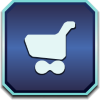
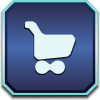
more UI:

diff --git a/game.js b/game.js
@@ -9,30 +9,83 @@ var death = function(e) {
     enemies = enemies.filter( (value, index, arr) => value != e);
 }
 
-//var enemy = new Enemy(speed, spawn, rails, death, 5, document.getElementById('enemy'));
-//enemies.push(enemy);
-
-
 generateTileBoard(spawn, rails);
 
+var bg = two.makeRectangle(w/2, h/2, two.width, two.height);
+var bgText = two.makeTexture(document.getElementById('bg_img'));
+bg.fill = bgText;
+bg.noStroke();
+bgLayer.add(bg);
+
 var shopBtnText = two.makeTexture(document.getElementById('shop_btn'));
-var shopBtn = two.makeRectangle(two.width * .9, two.height * .9 , 100, 100);
+var shopBtnActvText = two.makeTexture(document.getElementById('shop_btn_actv'));
+var shopBtn = two.makeRectangle(two.width * .9, two.height * .85 , 100, 100);
+shopBtn.fill = shopBtnText;
+shopBtn.noStroke();
+
+
+var uiBgText = two.makeTexture(document.getElementById('ui_bg'));
+var uiBg = two.makeRectangle(two.width * .9 - 75, two.height/2, 450, 800);
+uiBg.fill = uiBgText;
+uiBg.noStroke();
+
+var hpBarText = two.makeTexture(document.getElementById('hp_bar'));
+var hpBar = two.makeRectangle(two.width * .9 - 75, two.height * .15 , 400, 70);
+hpBar.fill = hpBarText;
+hpBar.noStroke();
+
+var hpBarText = two.makeTexture(document.getElementById('hp_bar_hp'));
+var hpBarhp = two.makeRectangle(two.width * .9 - 75-29, two.height * .15 , 330, 58);
+hpBarhp.fill = hpBarText;
+hpBarhp.noStroke();
+
+var moneyBarText = two.makeTexture(document.getElementById('money_bar'));
+var moneyBar = two.makeRectangle(two.width * .9 - 75, two.height * .15 + 100, 400, 70);
+moneyBar.fill = moneyBarText;
+moneyBar.noStroke();
+
+var two_currency = new Two.Text("" + player_currency);
+two_currency.alignment = 'right';
+two_currency.size = 65;
+two_currency.family = 'ZCOOL KuaiLe';
+two_currency.fill = '#FFFFFF';
+two_currency.translation = new Two.Vector(two.width * .9 - 75 + 120, two.height * .15 + 107);
+
+var normalText = two.makeTexture(document.getElementById('normal_btn'));
+var fastText =  two.makeTexture(document.getElementById('fast_btn'));
+var speedBtn = two.makeRectangle(two.width * .9 - 150, two.height * .85 , 100, 100);
+speedBtn.noStroke();
+speedBtn.fill = normalText;
+
+UILayer.add(uiBg, speedBtn, shopBtn, hpBar, hpBarhp, moneyBar, two_currency);
+
 two.update();
+
+speedBtn._renderer.elem.onclick = () => {
+    if(gameSpeed == 1) {
+        gameSpeed = 2;   
+        speedBtn.fill = fastText;
+    } else {
+        gameSpeed = 1;
+        speedBtn.fill = normalText;
+    }
+}
 
 shopBtn._renderer.elem.onclick = () => {
     if(state == 0) {
+        shopBtn.fill = shopBtnActvText;
         state = 1;
         shopState = 0;
     } else if(state == 1) {
+        shopBtn.fill = shopBtnText;
         shopState = 2;
     } else if(state == 2) {
+        shopBtn.fill = shopBtnActvText;
         state = 1;
         shopState = 0;
     }
 }
 
-shopBtn.fill = shopBtnText;
-shopBtn.noStroke();
 
 var level = -1;
 var levelRunningState = 0; //0 -> waiting for current enemies to die
@@ -58,14 +111,13 @@ var numEnemies = 4;
 two.bind('update', function(frameCount) {
     if(state == 0) {
         
-
         if(levelRunningState == 0 && enemies.length == 0) {
             levelRunningState = 2;
-			setTimeout(() => {levelRunningState = 1; level++;currentEnemy = 0, numEnemySpawn=0, spawnTimer=0}, 5000);
+			setTimeout(() => {levelRunningState = 1; level++;currentEnemy = 0, numEnemySpawn=0, spawnTimer=0}, 5000/gameSpeed);
         }
 
         var spawns = enemySpawns()[level];
-        spawnTimer += two.timeDelta/1000;
+        spawnTimer += two.timeDelta/1000*gameSpeed;
 
 
         if(spawns && spawnTimer >= spawns[1][currentEnemy] && levelRunningState == 1) {
@@ -89,10 +141,10 @@ two.bind('update', function(frameCount) {
 
 
         for(var i = 0; i < enemies.length; i++) {
-            enemies[i].update(two.timeDelta);
+            enemies[i].update(two.timeDelta*gameSpeed);
         }
         for(var i = 0; i < towers.length; i++) {
-            towers[i].draw(enemies, two.timeDelta);
+            towers[i].draw(enemies, two.timeDelta*gameSpeed);
         }
 		// update health and currency
 
@@ -105,12 +157,25 @@ two.bind('update', function(frameCount) {
 		}
 
 		// update health and currency ui
-		two_health.value = "" + player_health;
-		two_currency.value = "" + player_currency;
+
+        if(player_health_visual != player_health) {
+            player_health_visual += (-player_health_visual + player_health) * 0.05;
+        }
+
+        var hpbarhpWidth = 330;
+        var hpbarhpPos = two.width * .9 - 75-29;
+        var normalizedHp = player_health_visual / player_max_health;
+        hpBarhp.width = hpbarhpWidth * normalizedHp;
+        hpBarhp.translation.set(hpbarhpPos - (1 - normalizedHp) * hpbarhpWidth / 2, hpBarhp.translation.y);
 
     } 
-    shopUpdate(two.timeDelta);
-    placementUpdate(two.timeDelta);
+
+
+    two_currency.value = "" + player_currency * 100;
+
+
+    shopUpdate(two.timeDelta*gameSpeed);
+    placementUpdate(two.timeDelta*gameSpeed);
 
 }).play();  // Finally, start the animation loop
 

diff --git a/tower.js b/tower.js
@@ -66,7 +66,7 @@ class Tower {
 
             setTimeout( () => {
                 gameLayer.remove(laser);
-            }, 100);
+            }, 100/gameSpeed);
             this.time = 0;
         }
     }
@@ -91,7 +91,7 @@ class Tower {
             for (var i = 0; i < lasers.length; i++) {
                 gameLayer.remove(lasers[i]);
             }
-        }, 100);
+        }, 100/gameSpeed);
         this.time -= this.fire_rate;
     }
 
@@ -119,13 +119,13 @@ class Tower {
             for (var i = 0; i < affected.length; i++) {
                 affected[i].speed *= 2;
             }
-        }, this.fire_rate/2);
+        }, this.fire_rate/2/gameSpeed);
 
         setTimeout( () => {
             for (var i = 0; i < lasers.length; i++) {
                 gameLayer.remove(lasers[i]);
             }
-        }, 100);
+        }, 100/gameSpeed);
         this.time -= this.fire_rate;
     }
 

diff --git a/global-var.js b/global-var.js
@@ -4,6 +4,9 @@ var shopState = 0;
 var placementState = 0;
 var enemies = [];
 var towers = [];
+var gameSpeed = 1;
+
+var bgLayer = two.makeGroup();
 var tileLayer = two.makeGroup();
 var gameLayer = two.makeGroup();
 var UILayer = two.makeGroup();
@@ -12,13 +15,8 @@ var UILayer = two.makeGroup();
 //Player Data
 var player_max_health = 20
 var player_health = player_max_health;// initial numbers
+var player_health_visual = player_health;
 var player_currency = 5;
 var player_regen_rate = 1000;// millisecond until next health
 var regen_time = 0;
 //Player ui
-var two_health = new Two.Text("" + player_health)
-var two_currency = new Two.Text("" + player_currency)
-two_health.translation = new Two.Vector(two.width/2, two.height/2)
-two_currency.translation = new Two.Vector(two.width/2, two.height/2 + 50)
-UILayer.add(two_health)
-UILayer.add(two_currency)

diff --git a/shop.js b/shop.js
@@ -8,16 +8,16 @@ var tower3 = two.makeRectangle(-w/8, h/8, w/6, h/6);
 var tower4 = two.makeRectangle(w/8, h/8, w/6, h/6);
 
 
-var tower1_lb = new Two.Text("Standard Turret - 5G");
+var tower1_lb = new Two.Text("Standard Turret - 500G");
 tower1_lb.translation = new Two.Vector(-w/8, -h/8+h/14);
 
-var tower2_lb = new Two.Text("AOE Turret - 50G");
+var tower2_lb = new Two.Text("AOE Turret - 5000G");
 tower2_lb.translation = new Two.Vector(w/8, -h/8+h/14)
 
-var tower3_lb = new Two.Text("Slowing Turret - 25G");
+var tower3_lb = new Two.Text("Slowing Turret - 2500G");
 tower3_lb.translation = new Two.Vector(-w/8, h/8+h/14)
 
-var tower4_lb = new Two.Text("Sniper Turret - 15G");
+var tower4_lb = new Two.Text("Sniper Turret - 1500G");
 tower4_lb.translation = new Two.Vector(w/8, h/8+h/14)
 
 

diff --git a/game.html b/game.html
@@ -8,6 +8,15 @@
 	</head>
 	<body>
                 <img id="shop_btn" src="./res/Buttons/BTNs/Shop_BTN.png" />
+                <img id="shop_btn_actv" src="./res/shop_btn_actv.png" />
+                <img id="bg_img" src="./res/bg.png" />
+                <img id="normal_btn" src="./res/normal_speed.png" />
+                <img id="fast_btn" src="./res/fast_speed.png" />
+                <img id="ui_bg" src="./res/ui_bg.png" />
+                <img id="hp_bar" src="./res/hp_bar.png" />
+                <img id="hp_bar_hp" src="./res/hp_bar_hp.png" />
+                <img id="money_bar" src="./res/money_bar.png" />
+
 		<div class="game" id="draw-shapes" style="text-align: center">
 		</div>
 

diff --git a/html-preprocessor/main.py b/html-preprocessor/main.py
@@ -12,7 +12,7 @@ for filename in os.listdir(directory):
     svgStrings.append(etree.tostring(root))
 
 
-print """
+print( """
 <!DOCTYPE html>
 <html>
 	<head>
@@ -21,14 +21,24 @@ print """
 		<script src="./two.min.js"></script>
 	</head>
 	<body>
+
                 <img id="shop_btn" src="./res/Buttons/BTNs/Shop_BTN.png" />
+                <img id="shop_btn_actv" src="./res/shop_btn_actv.png" />
+                <img id="bg_img" src="./res/bg.png" />
+                <img id="normal_btn" src="./res/normal_speed.png" />
+                <img id="fast_btn" src="./res/fast_speed.png" />
+                <img id="ui_bg" src="./res/ui_bg.png" />
+                <img id="hp_bar" src="./res/hp_bar.png" />
+                <img id="hp_bar_hp" src="./res/hp_bar_hp.png" />
+                <img id="money_bar" src="./res/money_bar.png" />
+
 		<div class="game" id="draw-shapes" style="text-align: center">
 		</div>
-"""
+""")
 for i in svgStrings:
-    print i
+    print (i)
 
-print """
+print("""
 	</body>
 
 	<script src="./global-var.js"></script>
@@ -39,4 +49,4 @@ print """
 	<script src="./tower.js"></script>
 	<script src="./game.js"></script>
 </html>
-"""
+""")
